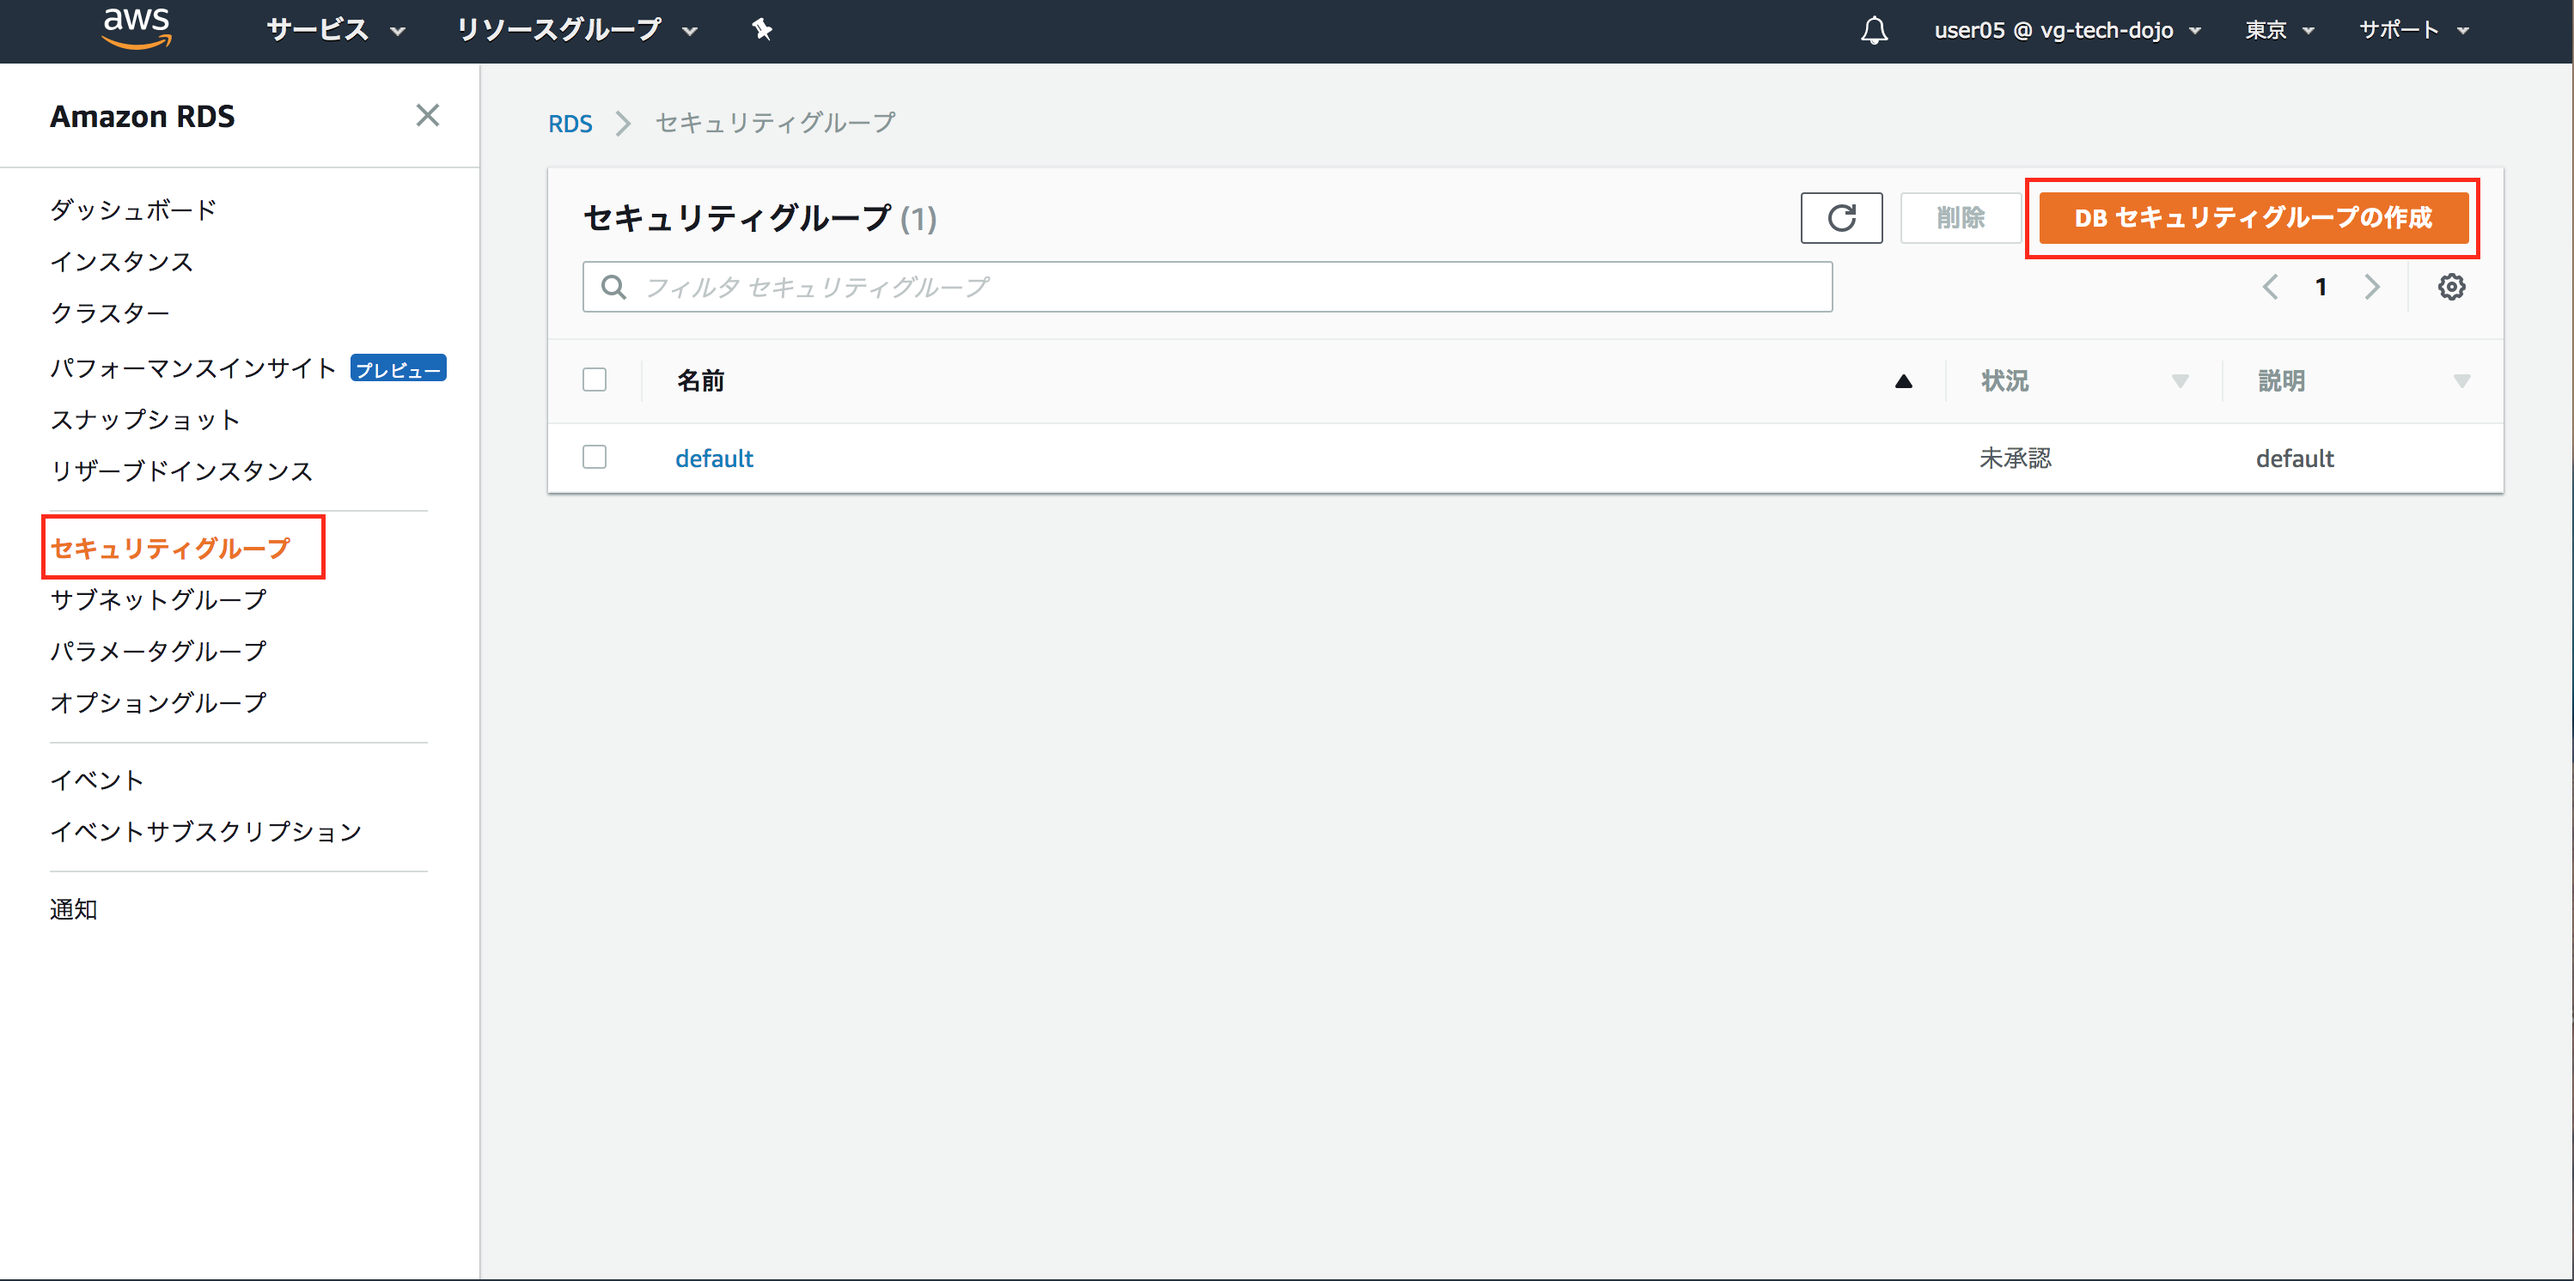
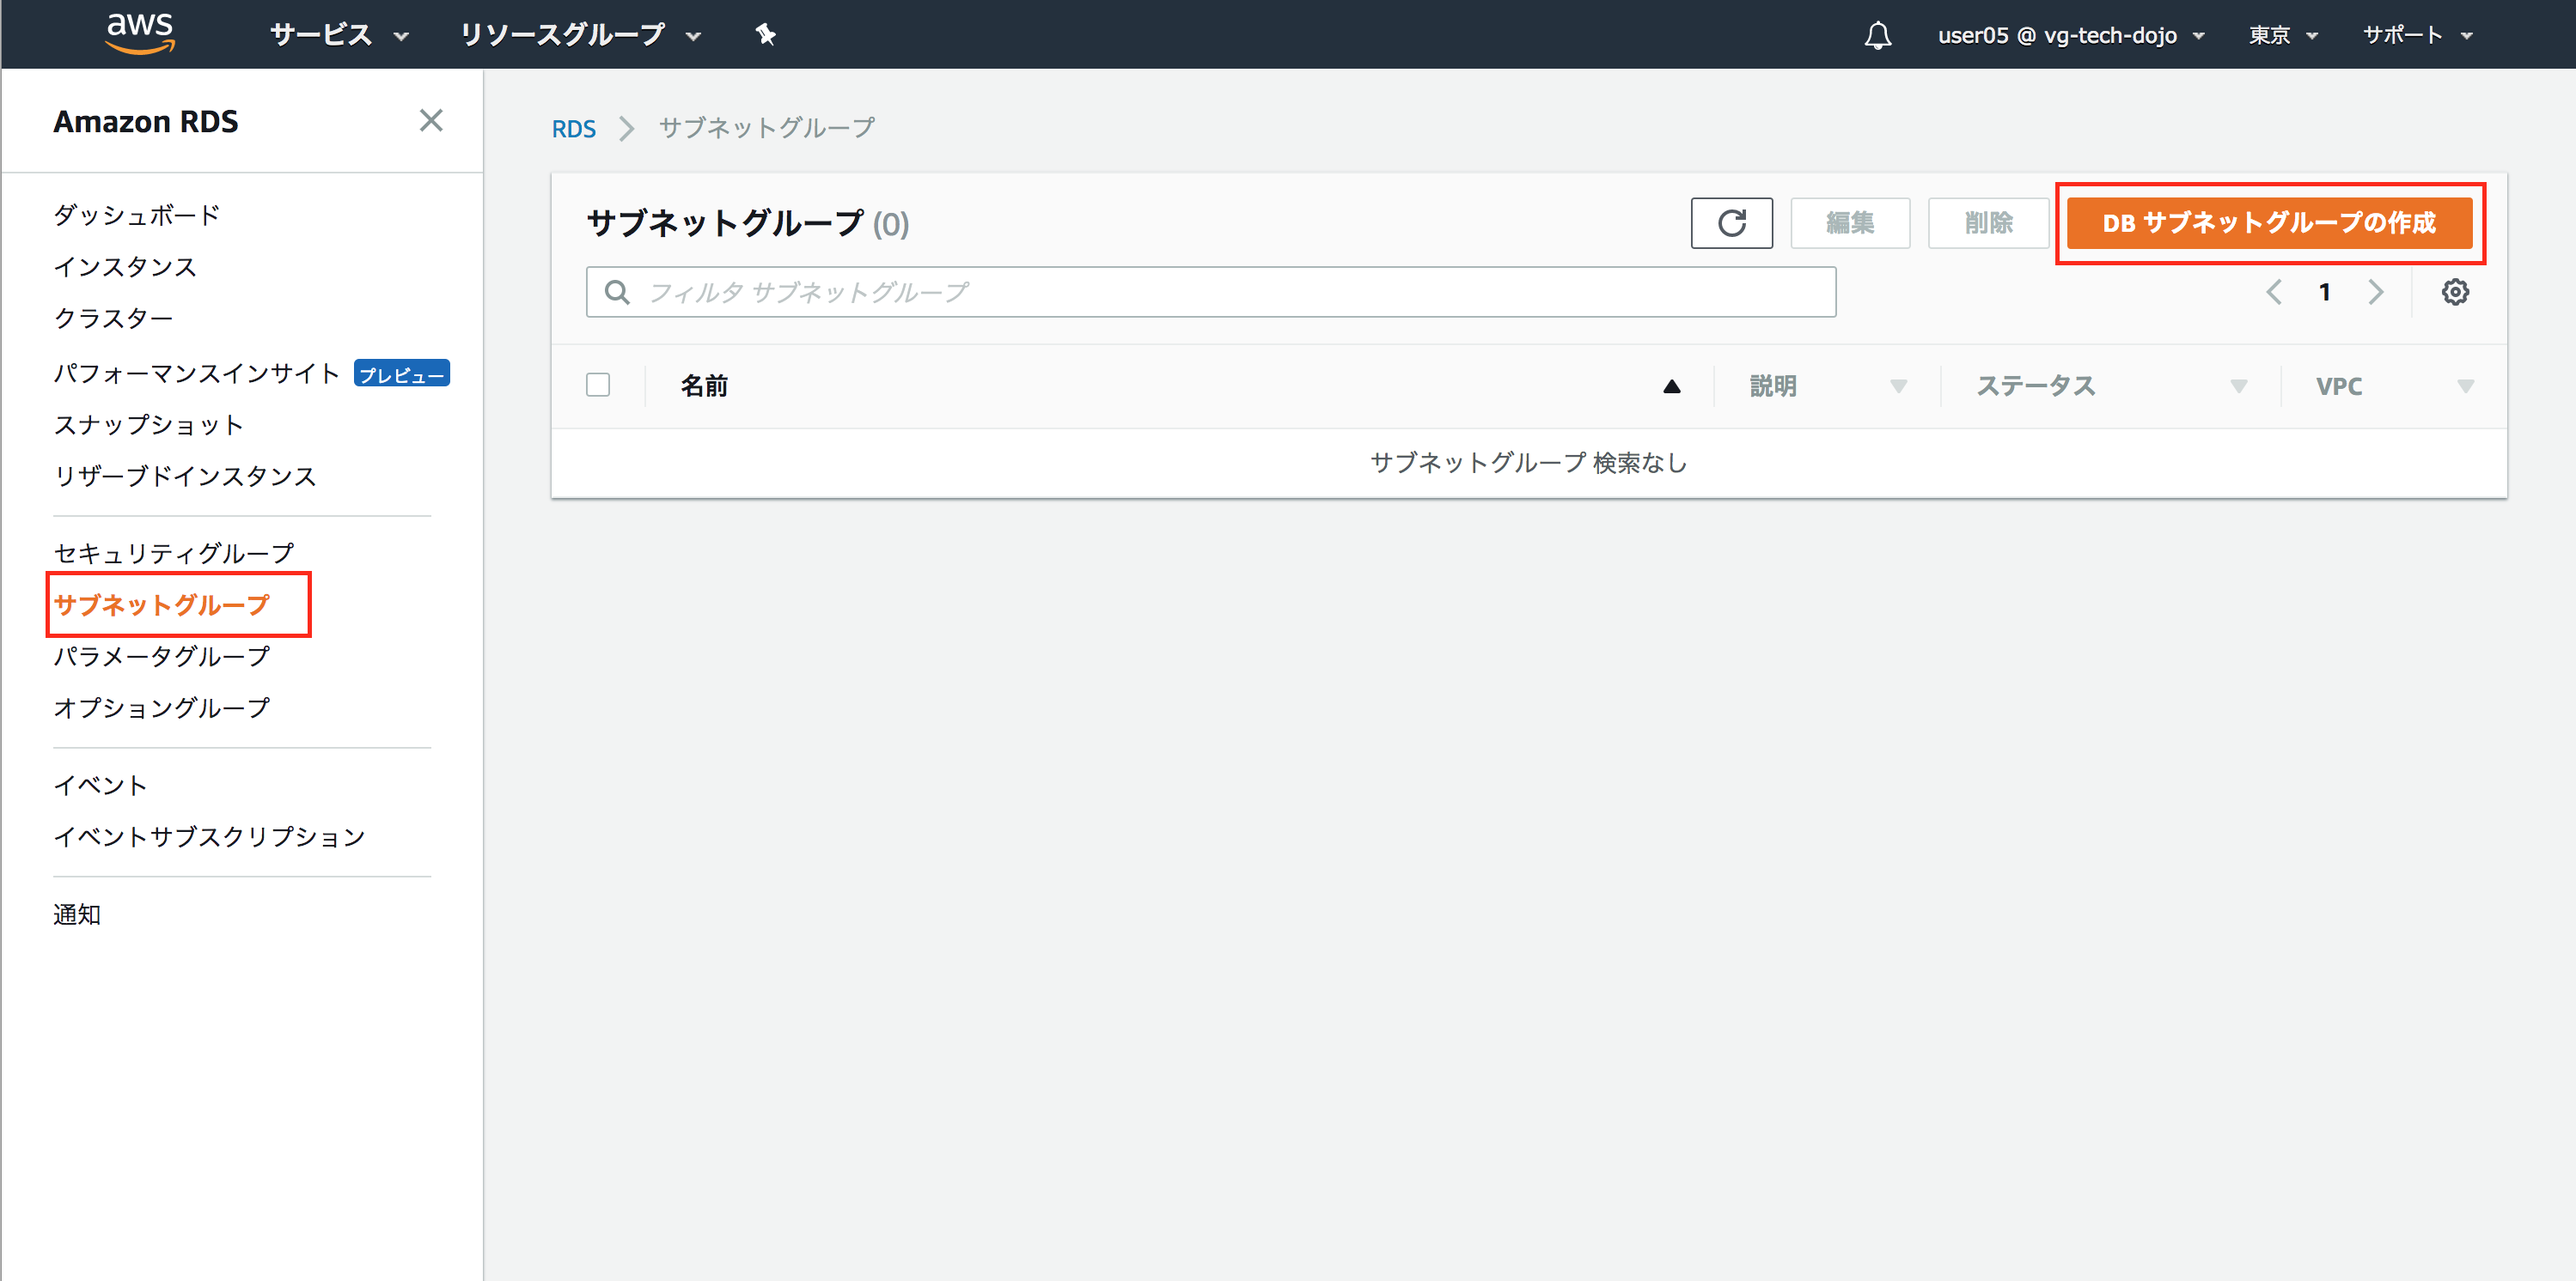
commit

diff --git a/Step-2.md b/Step-2.md
@@ -1,7 +1,10 @@
 # Step-2
-Step-2では「パブリックサブネット」内のEC2単体で賄っていたサービスのうちMySQLを「プライベートサブネット」に「Amazon Aurora MySQL」を利用して切り出します。
+Step-2ではミドルウェアレベルでの垂直分散を行います。具体的には「パブリックサブネット」内のEC2単体で賄っていたミドルウェアのうちMySQLを「プライベートサブネット」に「Amazon Aurora MySQL」を利用して切り出します。
 
-## Question
+## Question 垂直分散とは
+垂直分散について調べてみましょう(10分)
+
+## Question RDS、Auroraとは
 RDS(Relational Database Service)、Auroraについて調べてみましょう(10分)
 
 ## DB用セキュリティグループの作成
@@ -44,6 +47,10 @@ RDS(Relational Database Service)、Auroraについて調べてみましょう(10
 
 ----
 
-![rds-subnet-3](./images/step-2/rds-subnet-3.png "RDS-SUBNET3")
+![rds-subnet-3-1](./images/step-2/rds-subnet-3-1.png "RDS-SUBNET3-1")
+
+----
+
+![rds-subnet-3-2](./images/step-2/rds-subnet-3-2.png "RDS-SUBNET3-2")
 
 ----
